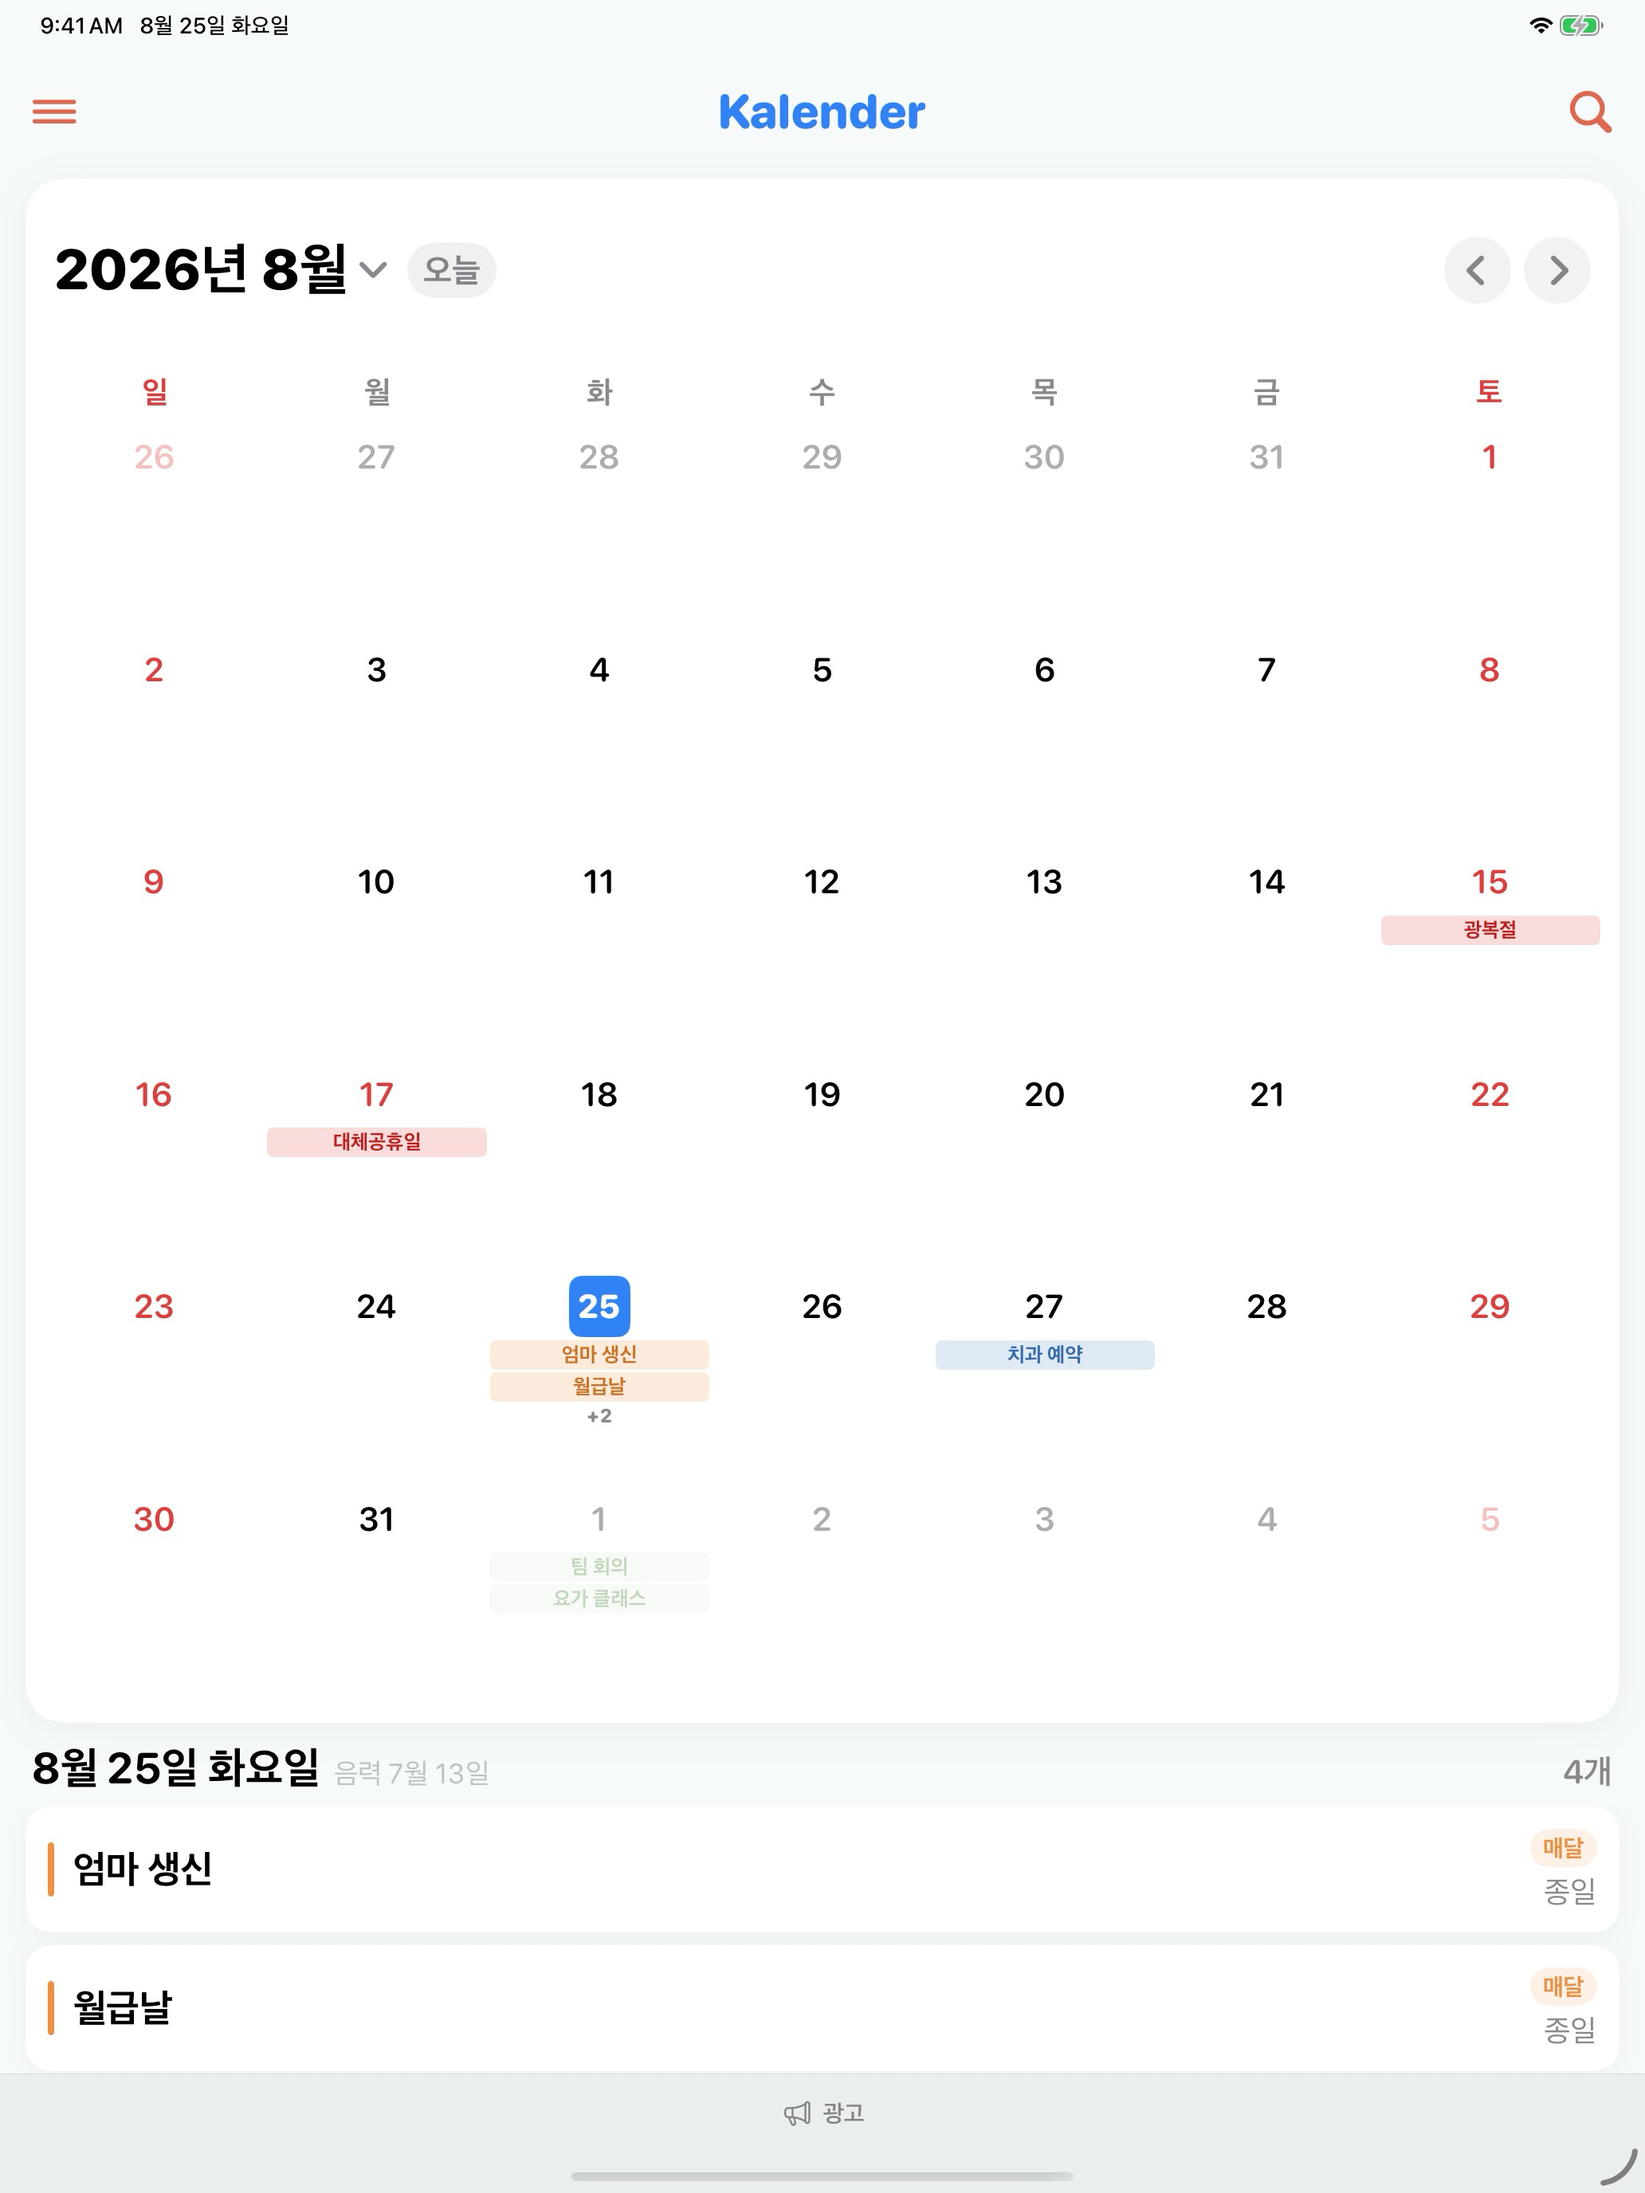
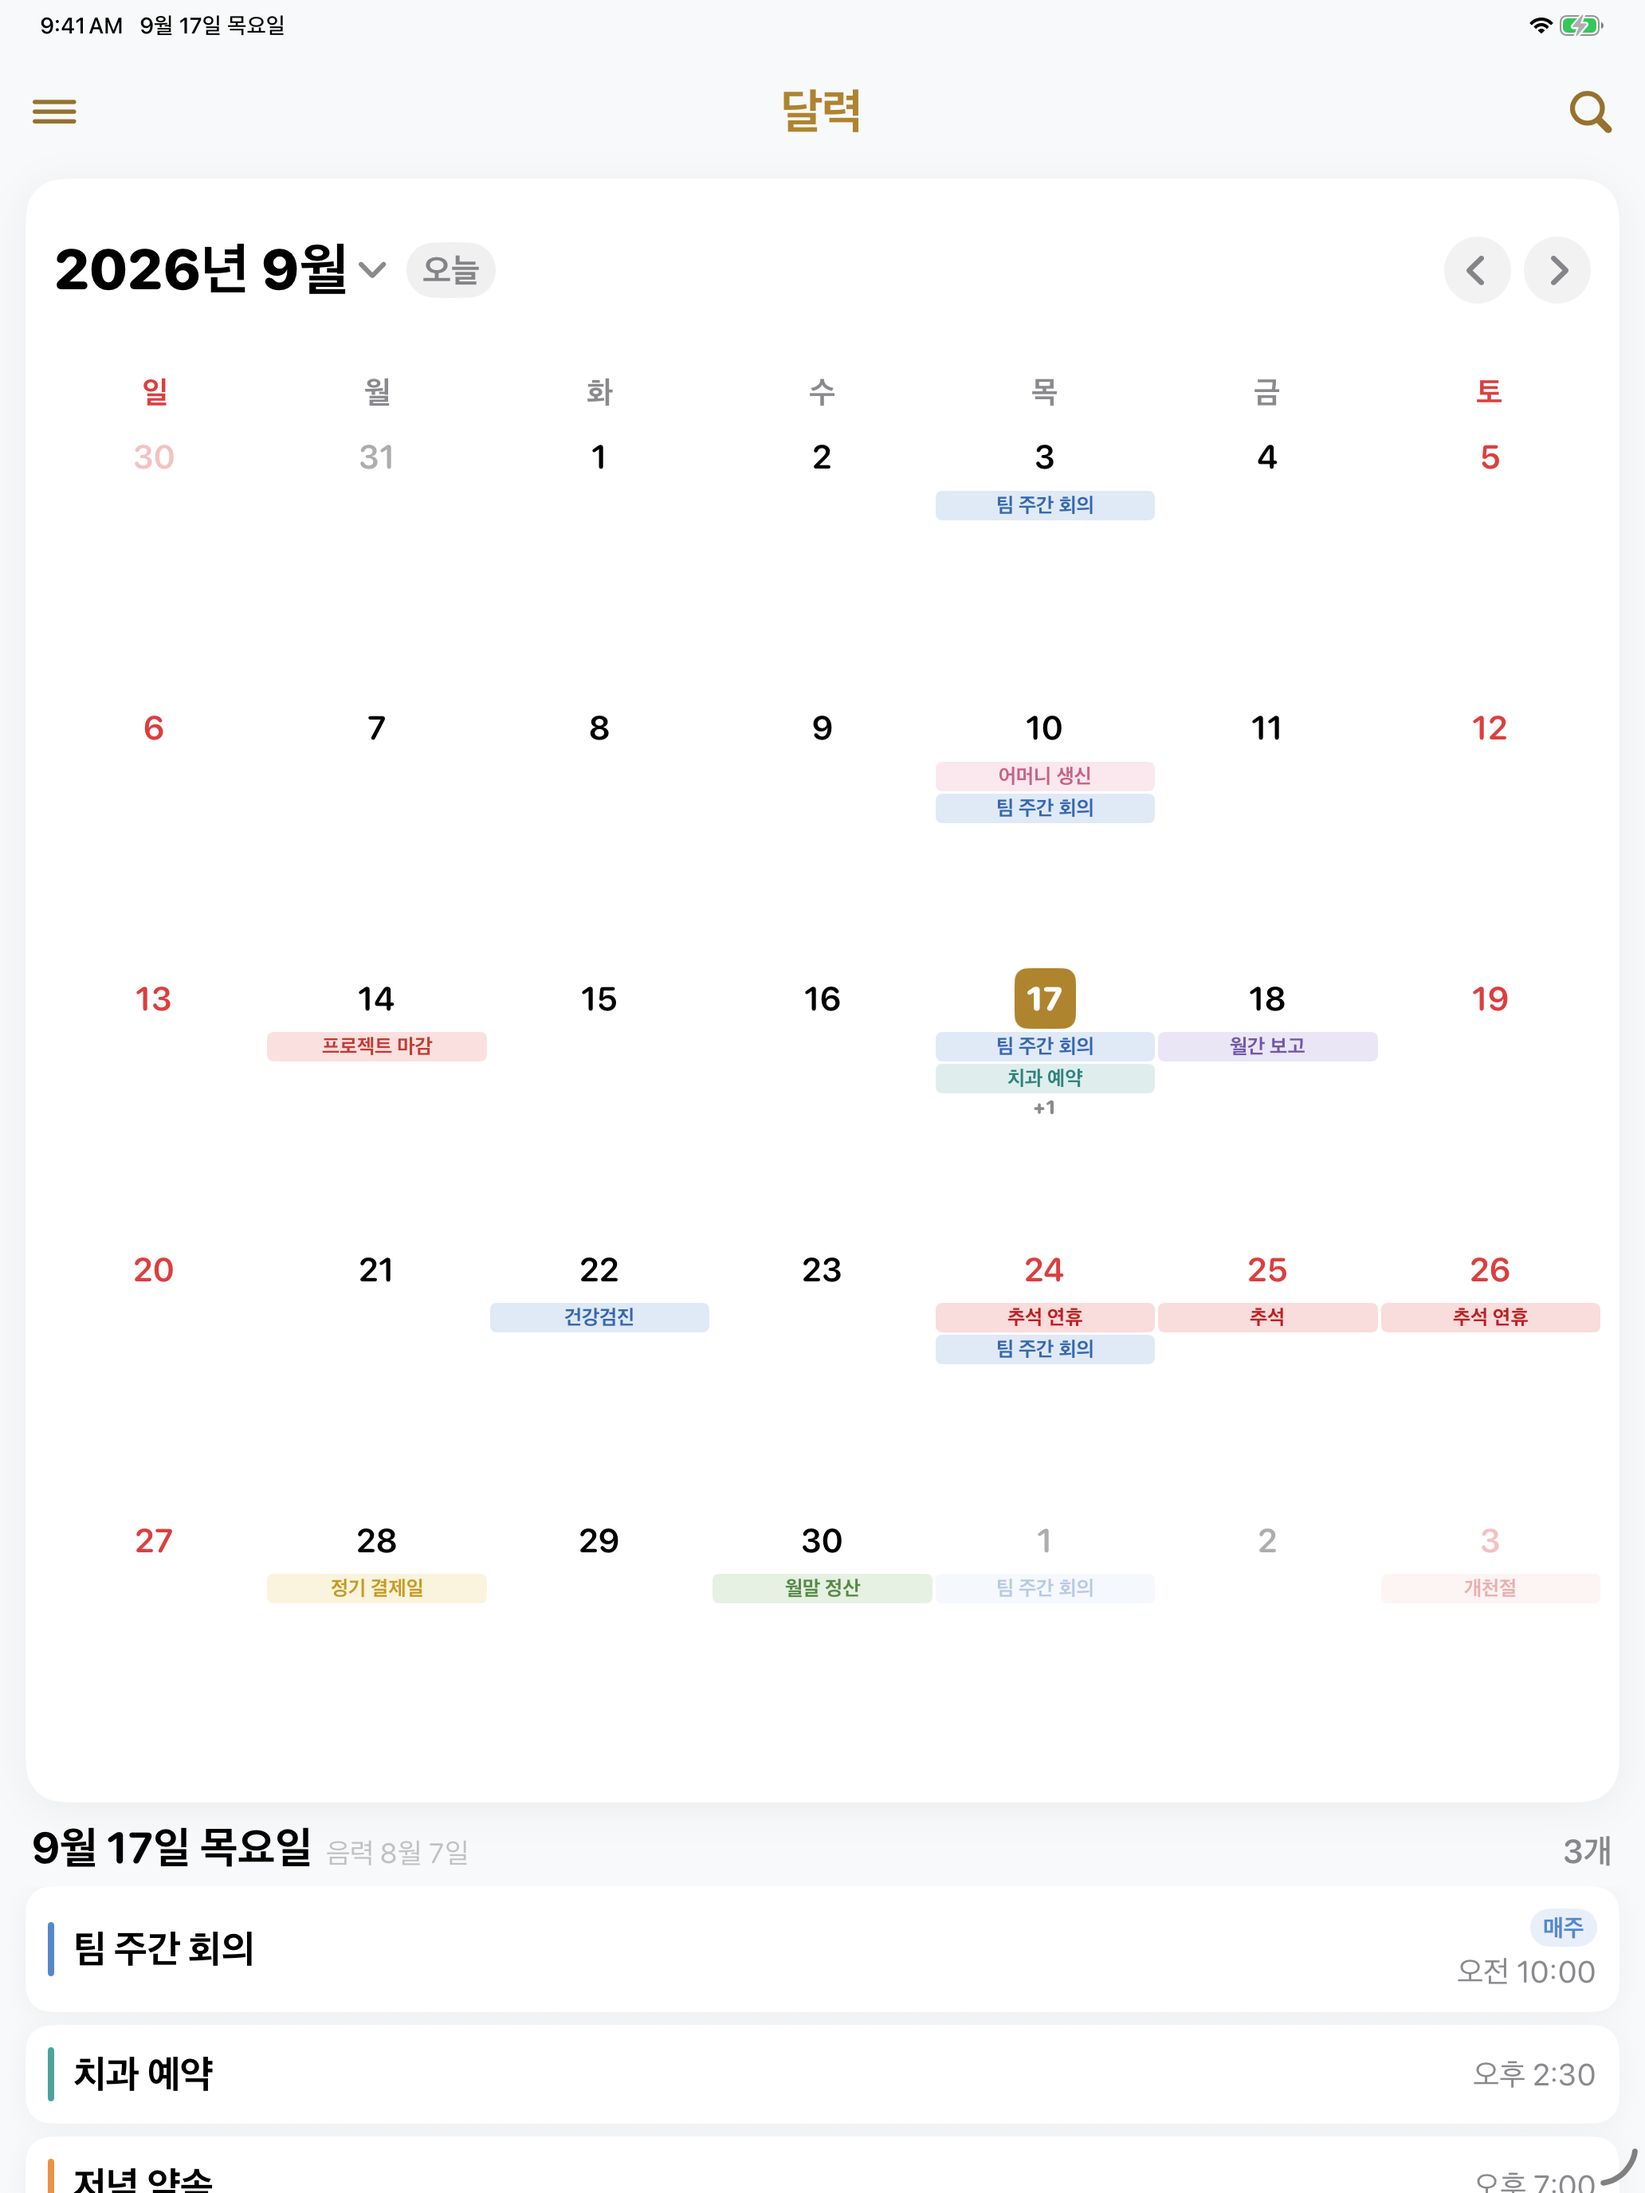
docs: regenerate App Store screenshots for new branding
- Add composed 6.9 inch App Store frames with headline copy
- Retake raw iPhone and iPad captures with the gold theme and sample schedules
- Replace the stale anniversary shot with a dark mode capture in README

diff --git a/README.md b/README.md
@@ -1,6 +1,6 @@
 <div align="center">
 
-# 📅 Kalender
+# 📅 하상원의 달력
 
 **음력과 한국 공휴일을 지원하는 iOS 무료 캘린더 · 위젯 앱**
 
@@ -21,11 +21,11 @@
 <table>
   <tr>
     <td align="center"><b>달력 · 일정</b></td>
-    <td align="center"><b>매년 기념일</b></td>
+    <td align="center"><b>다크 모드</b></td>
   </tr>
   <tr>
     <td><img src="appstore-screenshots/iphone-1-calendar.png" width="260"></td>
-    <td><img src="appstore-screenshots/iphone-2-anniversary.png" width="260"></td>
+    <td><img src="appstore-screenshots/iphone-2-dark.png" width="260"></td>
   </tr>
 </table>
 
